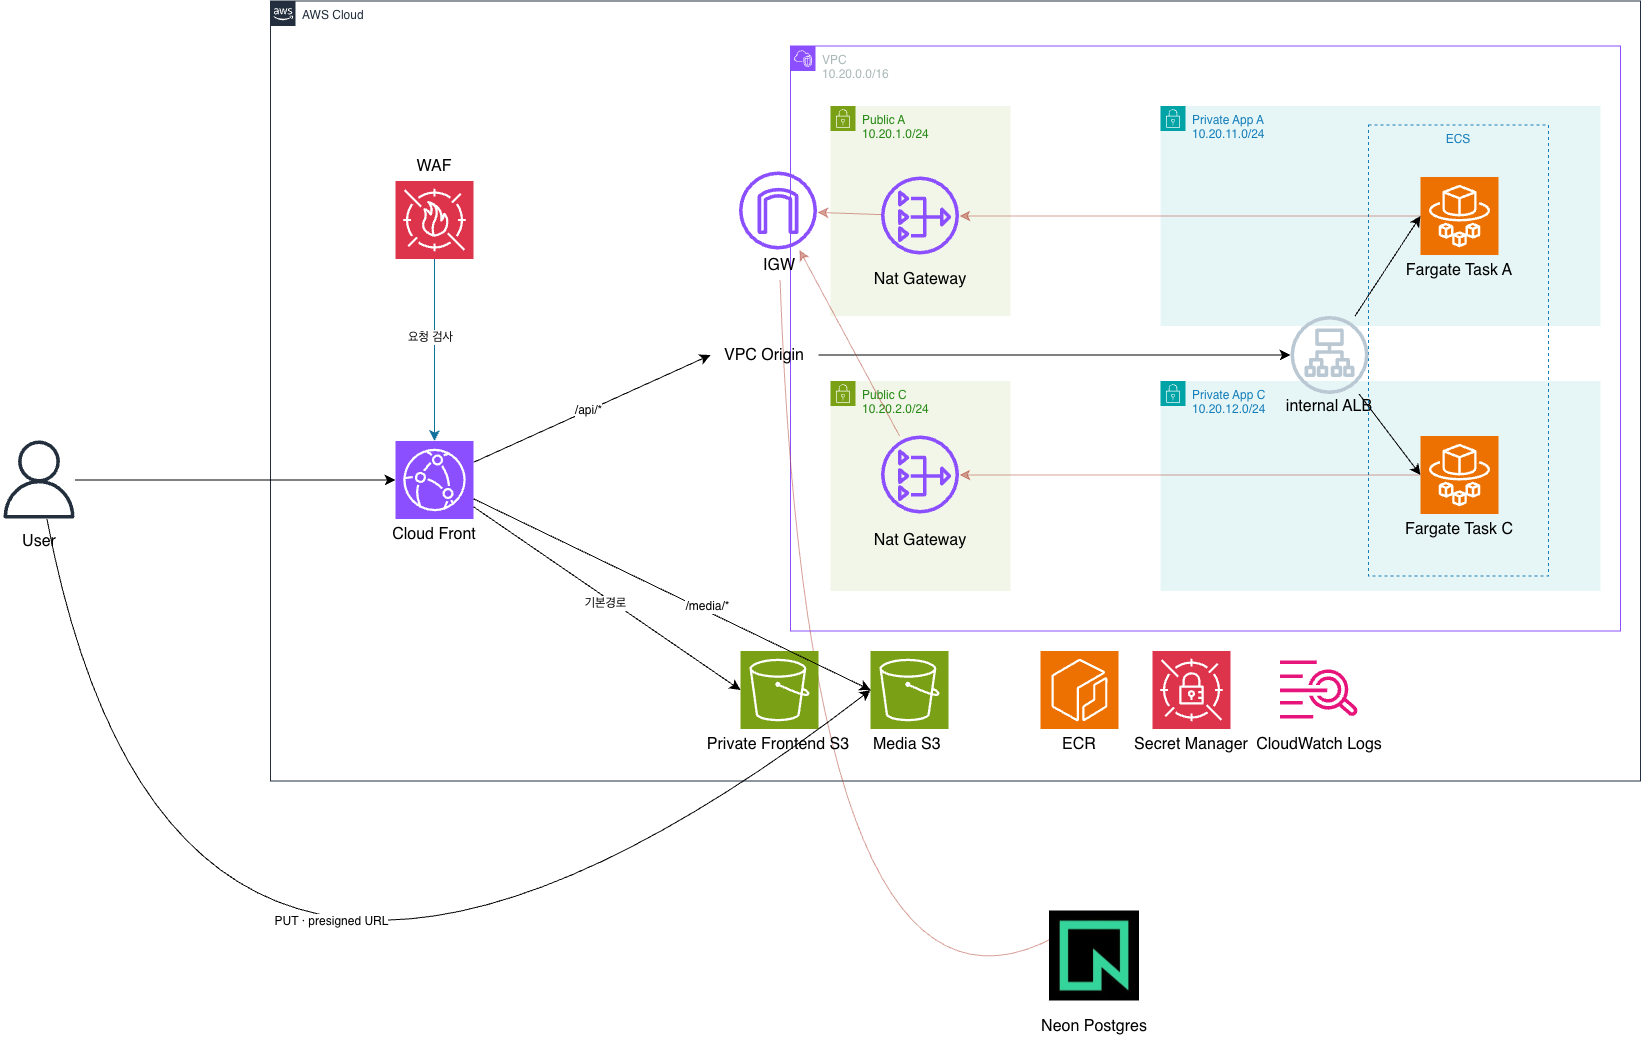
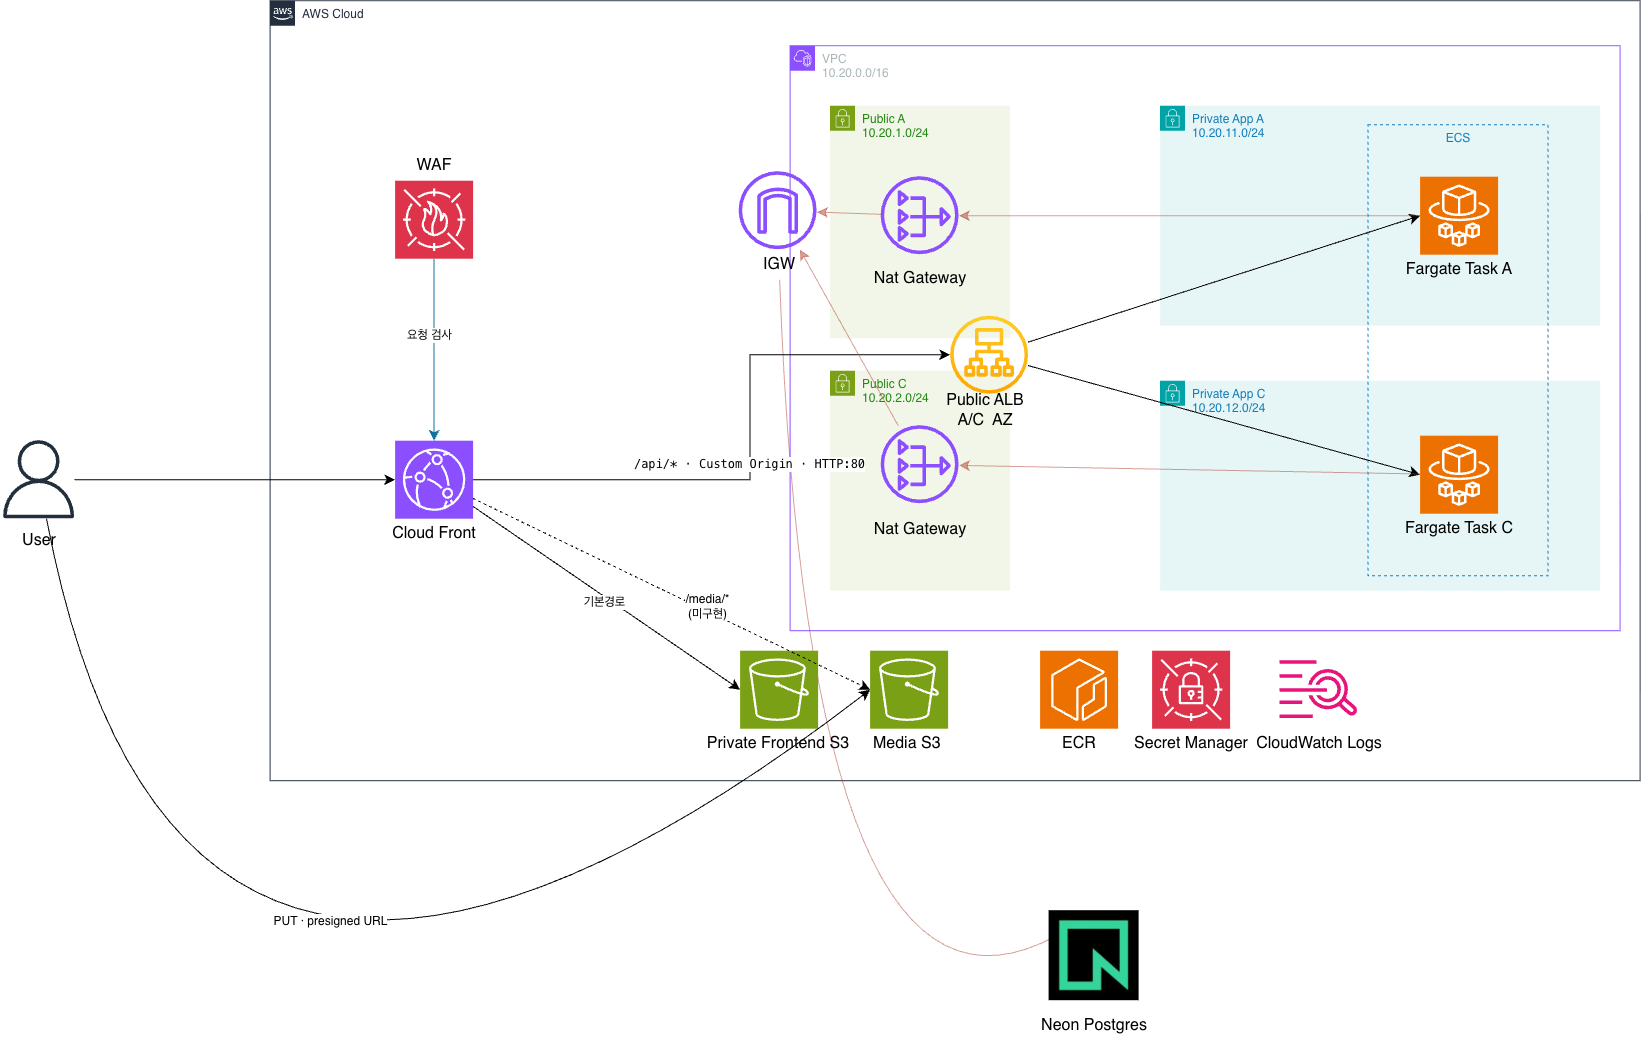
fix: 다이어그램이 프라이빗 ALB로 되어있던 문제를 해결함과 동시에 트러블슈팅 문서를 나눔, 그외에도 문법 교체와 등등..

diff --git a/README.md b/README.md
@@ -15,7 +15,7 @@ Velocity Bulletin의 AWS 인프라 설계와 운영 기준을 정의합니다.
 - 월 AWS 비용은 Neon 비용과 세금을 제외하고 약 20만~25만 원을 초기 운영 범위로 봅니다.
 - 불필요한 상시 관리 서버와 장기 Access Key를 만들지 않습니다.
 
-## 아키텍처
+## 다이어그램
 
 ![다이어그램이미지](./diagram.png)
 
@@ -25,22 +25,8 @@ Velocity Bulletin의 AWS 인프라 설계와 운영 기준을 정의합니다.
 - `/*` 요청은 CloudFront → private frontend S3(OAC)로, `/api/*` 요청은 캐시 없이 CloudFront → internal ALB로 전달됩니다.
 - internal ALB는 외부에서 직접 접근할 수 없고, CloudFront VPC Origin을 통해서만 도달합니다.
 
-## ⚠ 실제로 있었던 일: 인터널 ALB + CloudFront VPC Origin
-
-아래 "구축 순서"는 이 설계(인터널 ALB + CloudFront VPC Origin) 그대로 실제 콘솔에서 끝까지 진행했던 기록입니다. VPC Origin 리소스(`velocity-api-origin`) 생성까지는 문제없이 됐지만, **이 VPC Origin을 실제 CloudFront 배포의 오리진으로 연결(association)하는 단계에서 막혔습니다** — 사용 중인 CloudFront 배포가 Free 플랜이었고, Free 플랜에서는 VPC Origin을 오리진으로 붙일 수 없다는 오류가 발생했습니다.
-
-즉 이 메모/설계대로 계속 진행했다면 "그후 인터널 ALB가 보내면 태스크가 받아줘야 하니..." 이후, CloudFront에 오리진을 붙이는 시점에서 더 진행이 안 됐을 것입니다.
-
-실제로는 여기서 설계를 바꿔서 다음과 같이 해결했습니다.
-
-- 같은 VPC의 **Public 서브넷 2곳**에 **Internet-facing ALB**(`velocity-public-alb`)를 새로 생성
-- 이 ALB의 보안 그룹 인바운드는 `0.0.0.0/0` 대신 AWS 관리형 prefix list `com.amazonaws.global.cloudfront.origin-facing`으로 제한 (CloudFront 엣지 이외의 직접 접근 차단)
-- ALB 타겟 그룹은 **하나의 타겟 그룹을 두 ALB에 동시에 연결할 수 없다는 AWS 제약**(`TargetGroupAssociationLimit`) 때문에 새 타겟 그룹(`velocity-backend-tg-public`)을 추가로 만들고, ECS 서비스에 로드밸런서를 하나 더 등록(`aws ecs update-service --load-balancers`)해서 기존 internal ALB용 타겟 그룹과 새 public ALB용 타겟 그룹 모두에 태스크가 등록되도록 함
-- CloudFront의 `/api/*` 오리진을 VPC Origin이 아니라 이 public ALB의 **일반 Custom(ELB) Origin**(HTTP:80)으로 교체
-
-즉 최종적으로 배포된 구조는 internal ALB가 아니라 **public ALB + Custom Origin**입니다. internal ALB(`velocity-internal-alb`)와 미사용 VPC Origin(`velocity-api-origin`)은 당장 지우지 않고 새 경로가 안정적으로 동작하는지 확인한 뒤 정리하기로 했습니다.
-
-이 저장소의 Terraform 코드(아래 "Terraform" 절)는 **원래 설계(인터널 ALB + VPC Origin)를 그대로 코드화한 것**입니다 — 실제로 막혔던 지점까지 포함해서 일부러 그대로 남겨뒀습니다. CloudFront 플랜이 VPC Origin을 지원하는 계정에서는 이 코드가 그대로 동작해야 합니다. Free 플랜을 유지해야 하는 경우 `aws_cloudfront_vpc_origin`과 관련 오리진/behavior를 위 public ALB 방식으로 바꿔야 합니다.
+## 트러블슈팅
+[이동하기](./Troubleshootings.md)
 
 ## 구축 순서
 

diff --git a/Troubleshootings.md b/Troubleshootings.md
@@ -1,0 +1,15 @@
+
+참고로 "구축 순서"는 이 설계(인터널 ALB + CloudFront VPC Origin) 그대로 실제 콘솔에서 끝까지 진행했던 기록입니다. VPC Origin 리소스(`velocity-api-origin`) 생성까지는 문제없이 됐지만, **이 VPC Origin을 실제 CloudFront 배포의 오리진으로 연결(association)하는 단계에서 막혔습니다** — 사용 중인 CloudFront 배포가 Free 플랜이었고, Free 플랜에서는 VPC Origin을 오리진으로 붙일 수 없다는 오류가 발생했습니다.
+
+즉 이 메모/설계대로 계속 진행했다면 "그후 인터널 ALB가 보내면 태스크가 받아줘야 하니..." 이후, CloudFront에 오리진을 붙이는 시점에서 더 진행이 안 됐을 것입니다.
+
+실제로는 여기서 설계를 바꿔서 다음과 같이 해결했습니다.
+
+- 같은 VPC의 **Public 서브넷 2곳**에 **Internet-facing ALB**(`velocity-public-alb`)를 새로 생성
+- 이 ALB의 보안 그룹 인바운드는 `0.0.0.0/0` 대신 AWS 관리형 prefix list `com.amazonaws.global.cloudfront.origin-facing`으로 제한 (CloudFront 엣지 이외의 직접 접근 차단)
+- ALB 타겟 그룹은 **하나의 타겟 그룹을 두 ALB에 동시에 연결할 수 없다는 AWS 제약**(`TargetGroupAssociationLimit`) 때문에 새 타겟 그룹(`velocity-backend-tg-public`)을 추가로 만들고, ECS 서비스에 로드밸런서를 하나 더 등록(`aws ecs update-service --load-balancers`)해서 기존 internal ALB용 타겟 그룹과 새 public ALB용 타겟 그룹 모두에 태스크가 등록되도록 함
+- CloudFront의 `/api/*` 오리진을 VPC Origin이 아니라 이 public ALB의 **일반 Custom(ELB) Origin**(HTTP:80)으로 교체
+
+즉 최종적으로 배포된 구조는 internal ALB가 아니라 **public ALB + Custom Origin**입니다. internal ALB(`velocity-internal-alb`)와 미사용 VPC Origin(`velocity-api-origin`)은 당장 지우지 않고 새 경로가 안정적으로 동작하는지 확인한 뒤 정리하기로 했습니다.
+
+이 저장소의 Terraform 코드(아래 "Terraform" 절)는 **원래 설계(인터널 ALB + VPC Origin)를 그대로 코드화한 것**입니다 — 실제로 막혔던 지점까지 포함해서 일부러 그대로 남겨뒀습니다. CloudFront 플랜이 VPC Origin을 지원하는 계정에서는 이 코드가 그대로 동작해야 합니다. Free 플랜을 유지해야 하는 경우 `aws_cloudfront_vpc_origin`과 관련 오리진/behavior를 위 public ALB 방식으로 바꿔야 합니다.
